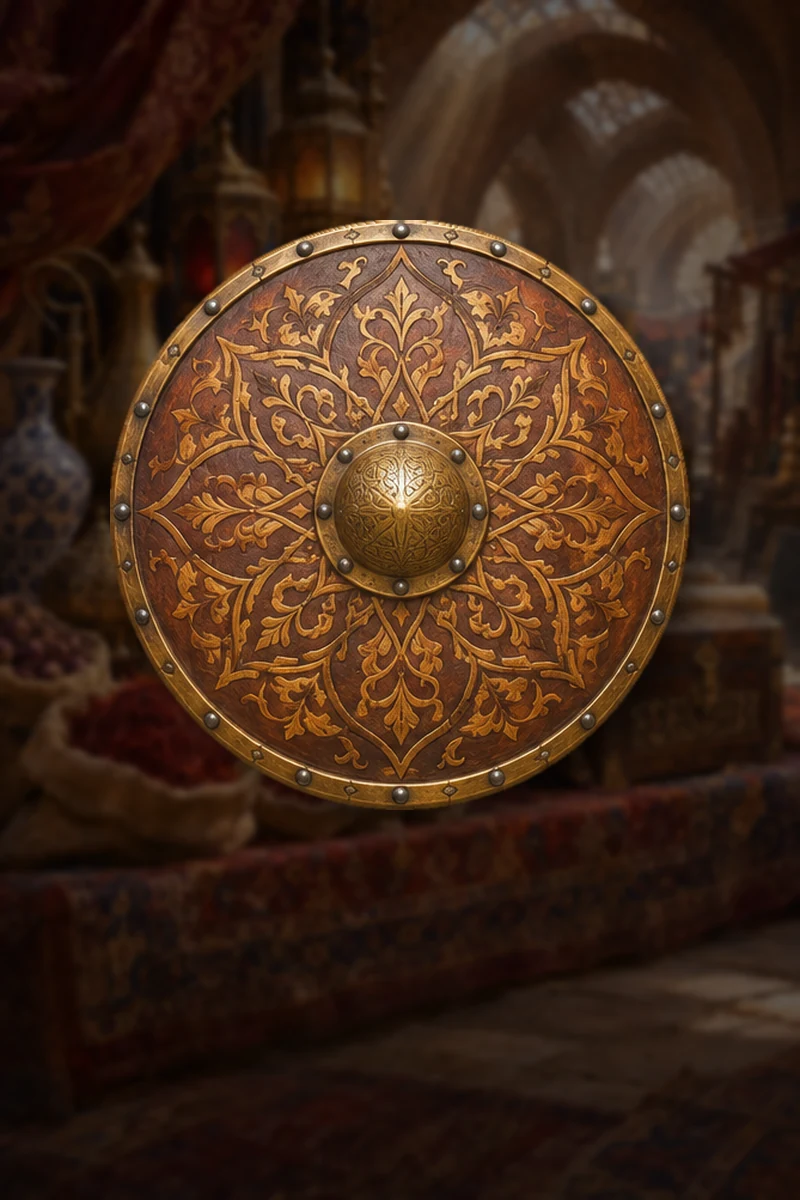
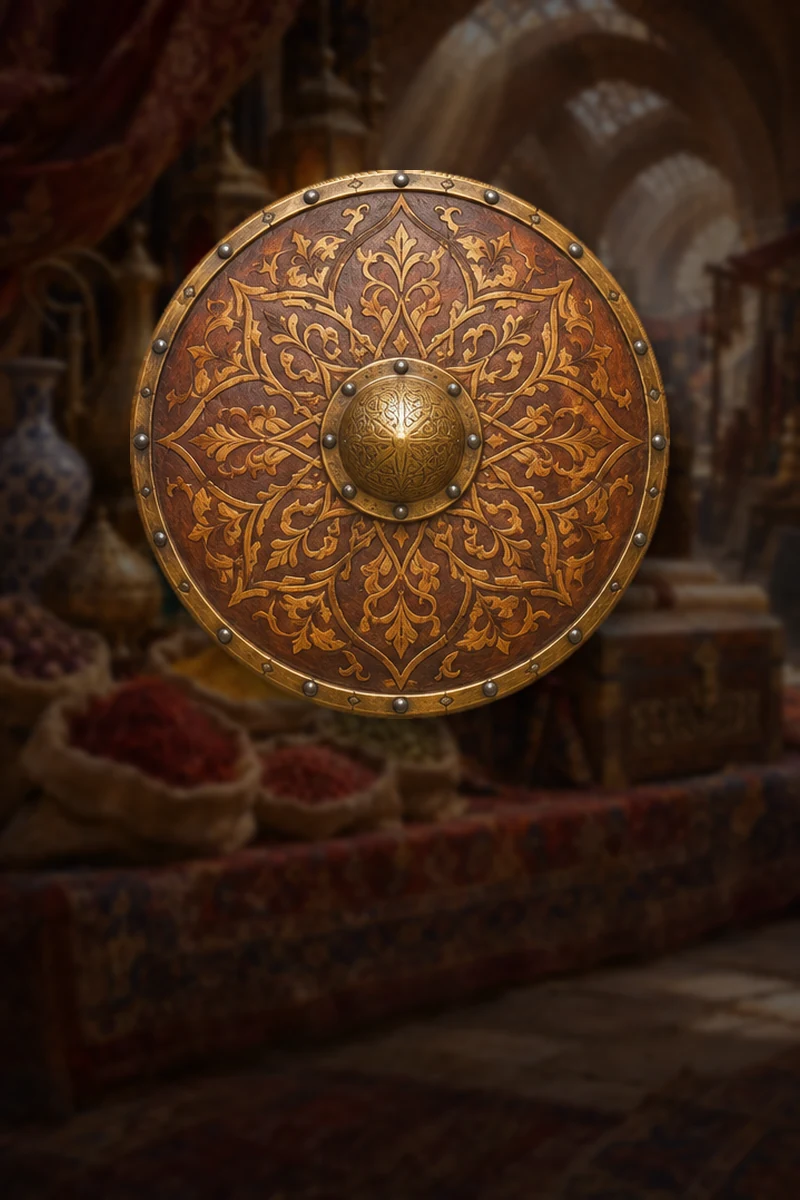
3D: carta del genio con la lámpara y escudo acomodados sobre el texto; galería de prueba de cartas de armas

Changed region(s): [[0.125, 0.1233, 0.875, 0.7092]]

diff --git a/src/components/Galeria.jsx b/src/components/Galeria.jsx
@@ -9,6 +9,7 @@ import retos from '../data/retos.json';
 
 const DATA = { ...BASE, eventos, mensajes, trivias, cuentos, retos };
 import { cartaDatos } from '../../shared/engine.js';
+import { itemDatos } from '../../shared/base.js';
 import '../styles/ui.css';
 
 // Herramienta de PRUEBA (solo builds demo): ?galeria=evento|historico|mensaje|objeto|trivia|mesa|personaje|reto dibuja todas las cartas del mazo en rejilla
@@ -18,7 +19,8 @@ const IDS = {
   objeto: () => DATA.objetos.mazo.map((x) => x.id), trivia: () => DATA.trivias.trivias.map((x) => x.id), mesa: () => DATA.trivias.deMesa.map((x) => x.id), cuento: () => DATA.cuentos.cuentos.map((x) => x.id), personaje: () => DATA.personajes.personajes.map((x) => x.id), reto: () => DATA.retos.retos.map((x) => x.id), especial: () => ['S1', 'S2', 'S4', 'F1'],
 };
 export default function Galeria({ mazo, ancho = 360 }) {
-  const lista = mazo === 'especial' ? DATA.objetos.especiales.filter((x) => IDS.especial().includes(x.id)).map((x) => ({ id: x.id, deck: 'especial', titulo: x.nombre, sub: 'Carta especial', texto: (x.texto || '') + ' ' + (x.efecto || ''), arte: x.arte })) : (IDS[mazo] || IDS.evento)().map((id) => cartaDatos(DATA, mazo in IDS ? mazo : 'evento', id));
+  // ?galeria=armas: las cartas de objetos armadas con las hojas de vistas (armas, flechas, escudo) y la del genio
+  const lista = mazo === 'armas' ? [...['cimitarra', 'alfanje', 'jambiya', 'arco', 'flechas'].map((r) => itemDatos(DATA, r)), cartaDatos(DATA, 'objeto', 'OB04'), cartaDatos(DATA, 'ifrit', 'I1')] : mazo === 'especial' ? DATA.objetos.especiales.filter((x) => IDS.especial().includes(x.id)).map((x) => ({ id: x.id, deck: 'especial', titulo: x.nombre, sub: 'Carta especial', texto: (x.texto || '') + ' ' + (x.efecto || ''), arte: x.arte })) : (IDS[mazo] || IDS.evento)().map((id) => cartaDatos(DATA, mazo in IDS ? mazo : 'evento', id));
   React.useEffect(() => {
     const t = setTimeout(() => {
       const malas = [...document.querySelectorAll('.c-cuerpo')].filter((e) => e.scrollHeight > e.clientHeight + 1).map((e) => e.closest('[data-id]')?.getAttribute('data-id'));

diff --git a/src/escena3d/herramientas/armar-cartas-objetos.py b/src/escena3d/herramientas/armar-cartas-objetos.py
@@ -43,7 +43,7 @@ def fondo_zoco():
 def fondo_noche():
     yy, xx = np.mgrid[0:H, 0:W].astype(np.float32)
     d = np.exp(-(((xx - W / 2) / (W * 0.62)) ** 2 + ((yy - H * 0.40) / (H * 0.46)) ** 2))
-    brasa = np.exp(-(((xx - W * 0.56) / (W * 0.5)) ** 2 + ((yy - H * 0.80) / (H * 0.16)) ** 2))      # resplandor cálido de la lámpara
+    brasa = np.exp(-(((xx - W * 0.6) / (W * 0.5)) ** 2 + ((yy - H * 0.66) / (H * 0.16)) ** 2))      # resplandor cálido de la lámpara
     a = np.array([10, 14, 34])[None, None] * (1 - d[..., None]) + np.array([28, 86, 104])[None, None] * d[..., None] + np.array([120, 70, 18])[None, None] * brasa[..., None] * 0.7
     rng = np.random.default_rng(7); a += rng.normal(0, 2.2, (H, W, 1))
     return Image.fromarray(np.clip(a, 0, 255).astype(np.uint8))
@@ -68,9 +68,9 @@ f = fondo_zoco(); poner(f, vistas(os.path.join(ARTE, 'armas/arco-mongol.png'), r
 f = fondo_zoco(); fl = vistas(os.path.join(ARTE, 'armas/flecha.png'), umbral=30)      # tres flechas en abanico
 for v, giro, dx in [(fl[1], 12, -150), (fl[2], -12, 150), (fl[0], 0, 0)]: poner(f, v, (CAJA[0] + dx, CAJA[1], CAJA[2] + dx, CAJA[3]), giro)
 guardar(f, 'it-flechas')
-f = fondo_zoco(); poner(f, vistas(os.path.join(ARTE, 'transportes/escudo.png'), cierre=7)[0], (110, 190, W - 110, 840)); guardar(f, 'OB04')
-# Genio: la lámpara abajo (de perfil, con el pico a la izquierda) y el genio saliendo de su boquilla
+f = fondo_zoco(); poner(f, vistas(os.path.join(ARTE, 'transportes/escudo.png'), cierre=7)[0], (130, 150, W - 130, 740)); guardar(f, 'OB04')
+# Genio: la lámpara (de perfil, con el pico a la izquierda) y el genio saliendo de su boquilla; todo en los dos tercios de arriba, porque abajo va el texto de los deseos
 f = fondo_noche(); lam = vistas(os.path.join(ARTE, 'transportes/lampara.png'), cierre=3, rellenar=False)[0]; gen = vistas(os.path.join(ARTE, 'transportes/genio.png'))[0]
-cl = poner(f, lam, (300, 900, 760, 1150)); pico = (cl[0] + 8, cl[1] + round((cl[3] - cl[1]) * 0.33))
-alto = pico[1] - 70; e = alto / gen.height; ancho = round(gen.width * e); cola = round(ancho * 0.52)      # la punta de la cola cae sobre la boquilla
-poner(f, gen, (pico[0] - cola, 70, pico[0] - cola + ancho, pico[1]), sombra=False); guardar(f, 'if')
+cl = poner(f, lam, (340, 690, 730, 885)); pico = (cl[0] + 8, cl[1] + round((cl[3] - cl[1]) * 0.33))
+alto = pico[1] - 185; e = alto / gen.height; ancho = round(gen.width * e); cola = round(ancho * 0.52)      # la punta de la cola cae sobre la boquilla
+poner(f, gen, (pico[0] - cola, 185, pico[0] - cola + ancho, pico[1]), sombra=False); guardar(f, 'if')
